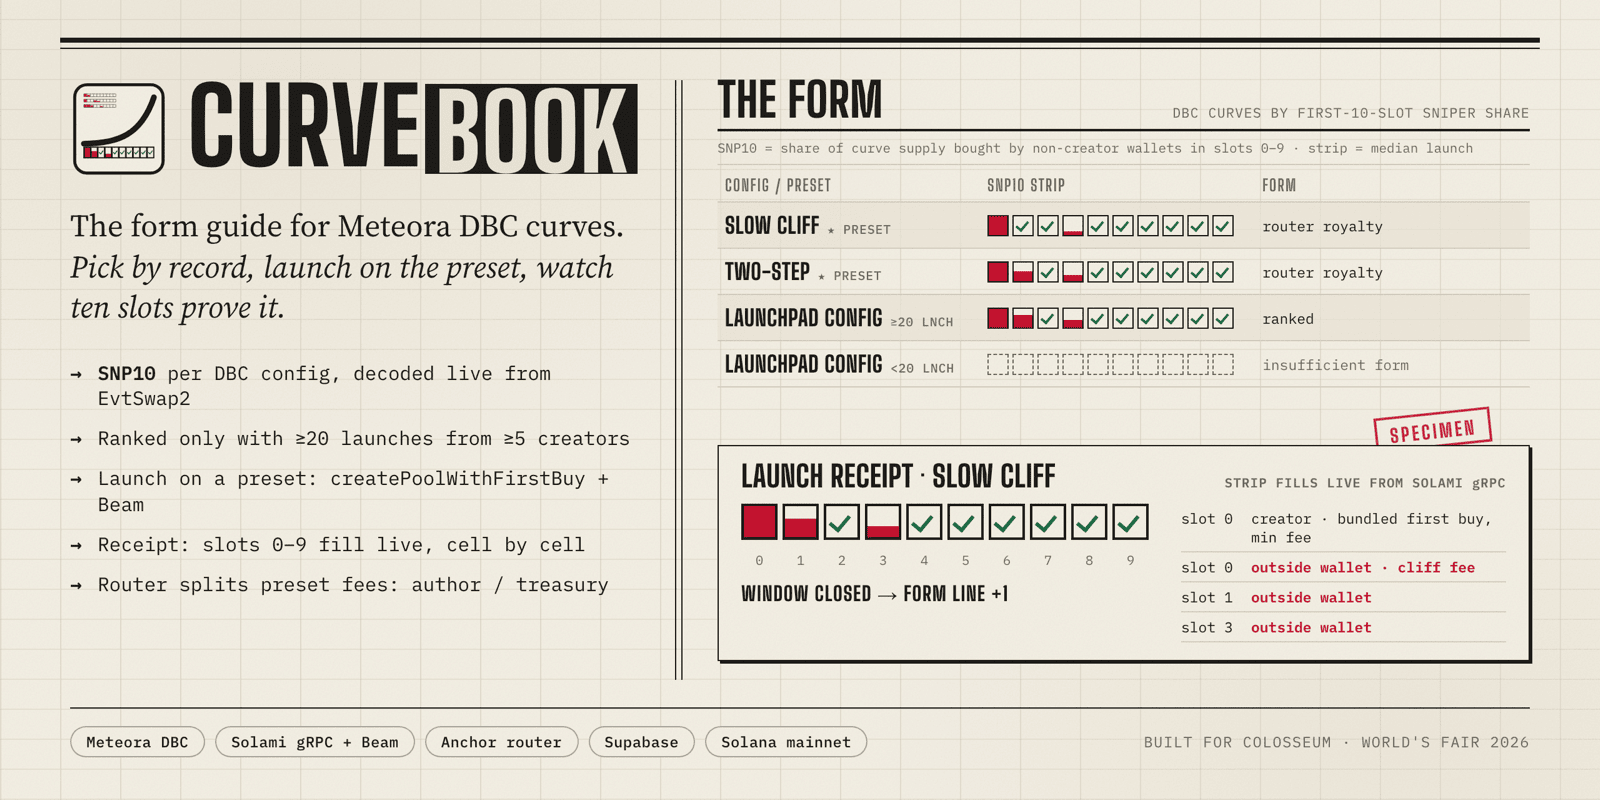
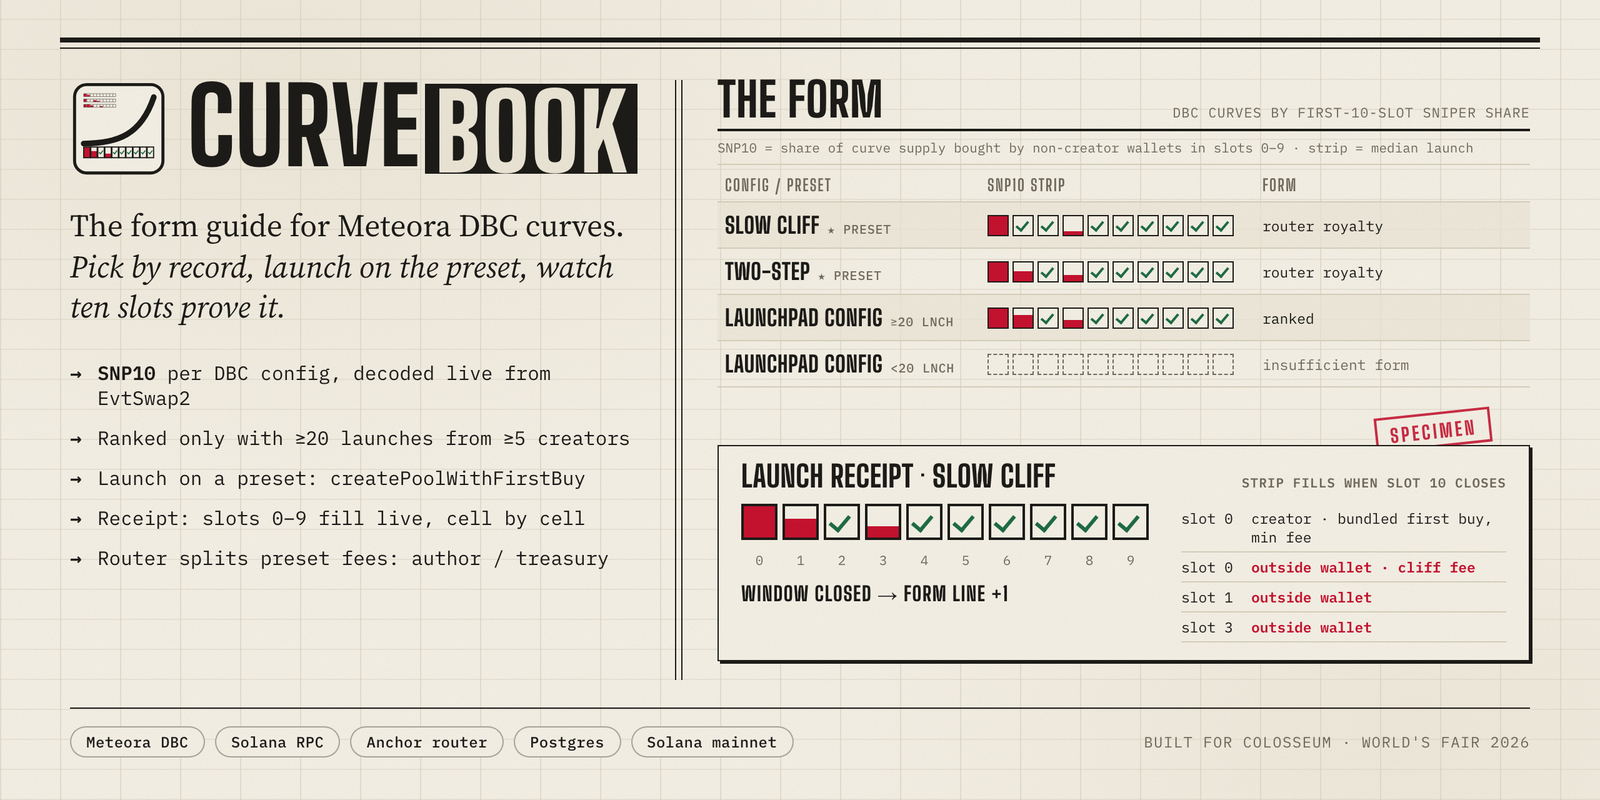
Refresh og and README hero images; link the demo and pitch videos
The images listed Solami gRPC/Beam and Supabase, which the live deployment
does not use (keyless public RPC, Postgres on Railway).

diff --git a/JUDGE.md b/JUDGE.md
@@ -7,6 +7,7 @@ This file mirrors the `/judge` page of the running app. Figures that come from t
 ## 30-second path
 
 Live app: **https://curvebook.edycu.dev** (worker on Railway indexing Solana mainnet 24/7; health at `/integrations/verify`).
+Demo video: https://youtu.be/DGLbhdIFg8Q · Pitch video: https://youtu.be/5uSudutu9OQ · Landing: https://curvebook.edycu.dev/landing · Deck: https://curvebook.edycu.dev/pitch
 
 1. **The Form** at `/`: every DBC config, ranked by SNP10.
 2. **A live receipt** at `/pool/<address>`: the newest finalized pool whose window has outside buys (SNP10 > 0). Live on `/judge`.

diff --git a/README.md b/README.md
@@ -11,6 +11,8 @@
   [![Receipts](https://img.shields.io/badge/🧾_Receipts-DEMO.md-C4122F?style=for-the-badge)](DEMO.md)
   [![Colosseum World's Fair](https://img.shields.io/badge/Colosseum-World's_Fair_2026-8b5cf6?style=for-the-badge)](https://colosseum.com/worldsfair)
 
+  **[Demo video (2:39)](https://youtu.be/DGLbhdIFg8Q)** · **[Pitch video (1:38)](https://youtu.be/5uSudutu9OQ)** · [Landing page](https://curvebook.edycu.dev/landing) · [Pitch deck](https://curvebook.edycu.dev/pitch)
+
   <br/>
 
   ![Solana](https://img.shields.io/badge/Solana_mainnet-9945FF?style=flat&logo=solana&logoColor=white)
